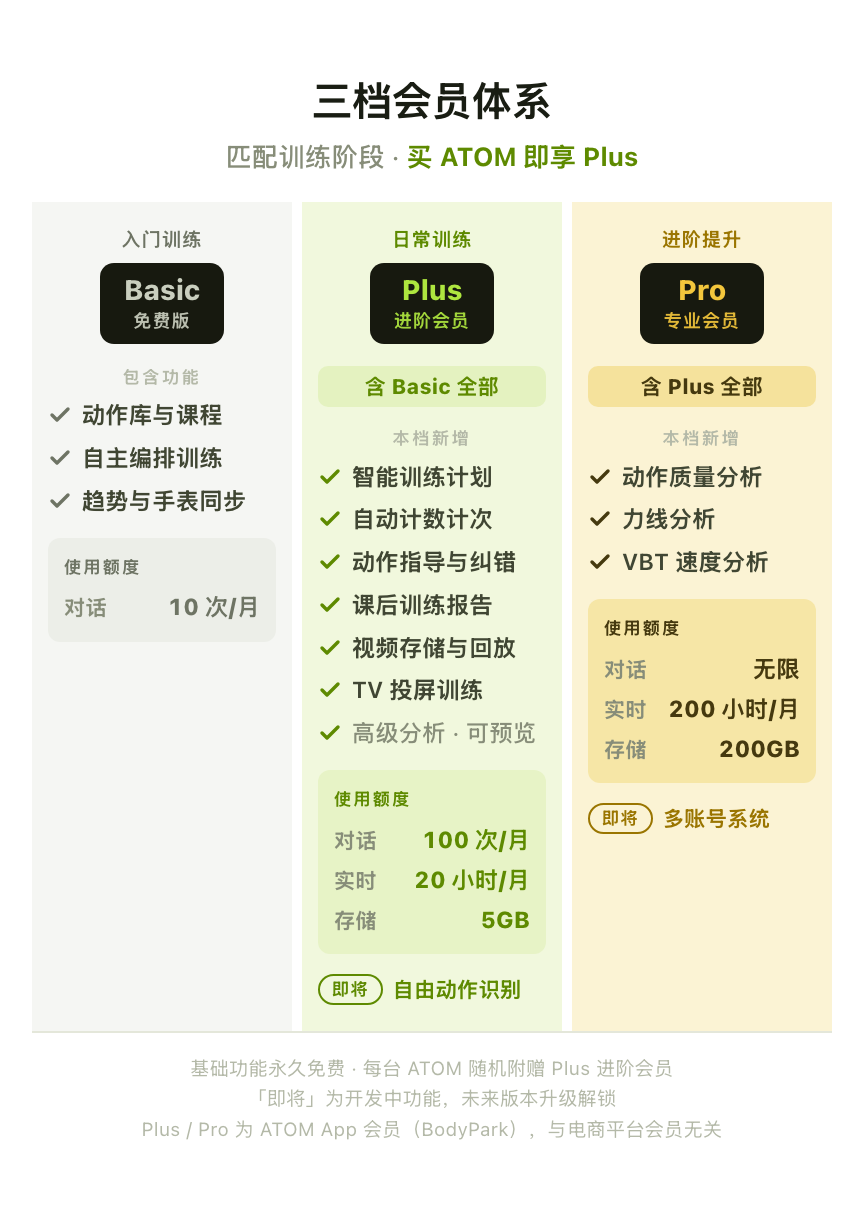
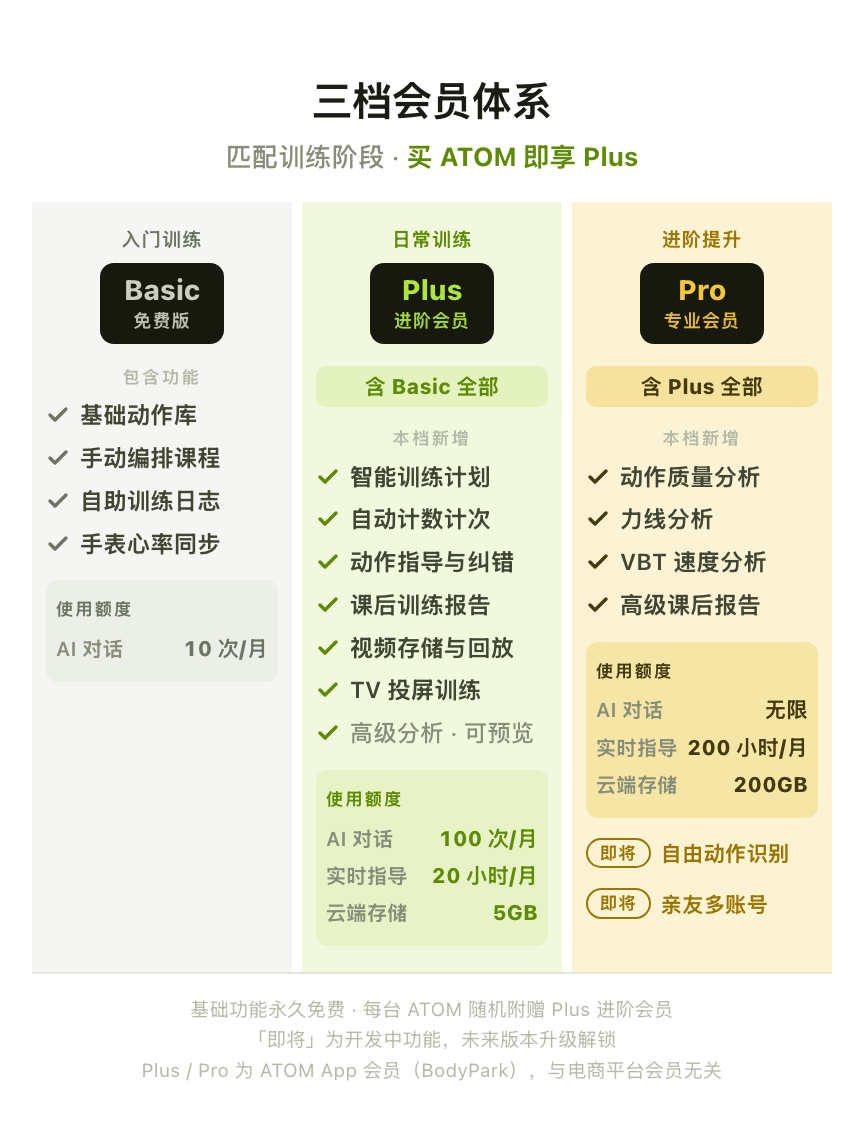
sync: 三版会员图口径统一（A 矩阵 / B 叠加 / C 简洁）
内容对齐到最新：
- 多账号系统 → 亲友多账号
- Pro 增「高级课后报告」（Pro 专属，Plus 不预览）
- 额度指标统一命名：AI 对话 / 实时指导 / 云端存储
- Basic 拆 4 项：基础动作库 / 手动编排课程 / 自助训练日志 / 手表心率同步
- 自由动作识别定为 Pro 专属；与亲友多账号同列「即将」，Plus 不再显示即将项
- B 叠加版 quota 收字号/间距解决长标签溢出，导出零溢出
- decisions.md 同步以上口径，自由动作识别档位标记为已决

Changed region(s): [[0.1562, 0.0611, 0.9688, 0.9468], [0.0625, 0.1832, 0.3125, 0.5803], [0.2188, 0.5497, 0.3125, 0.5803]]

diff --git a/charts/membership-matrix.html b/charts/membership-matrix.html
@@ -118,9 +118,10 @@
       ],
       rows: [
         { section: '跟练与记录' },
-        { label: '动作库与课程',   v: [Y, Y, Y] },
-        { label: '自主编排训练', v: [Y, Y, Y] },
-        { label: '趋势与手表同步', v: [Y, Y, Y] },
+        { label: '基础动作库',   v: [Y, Y, Y] },
+        { label: '手动编排课程', v: [Y, Y, Y] },
+        { label: '自助训练日志', v: [Y, Y, Y] },
+        { label: '手表心率同步', v: [Y, Y, Y] },
         { section: 'AI 实时教练' },
         { label: '智能训练计划',       v: [X, Y, Y] },
         { label: '自动计数计次', v: [X, Y, Y] },
@@ -132,13 +133,14 @@
         { label: '动作质量分析',   v: [X, P, Y] },
         { label: '力线分析',           v: [X, P, Y] },
         { label: 'VBT 速度分析',       v: [X, P, Y] },
+        { label: '高级课后报告',       v: [X, X, Y] },
         { section: '使用额度' },
-        { label: 'AI 教练对话',        v: ['10 次/月', '100 次/月', '无限'] },
-        { label: 'AI 实时时长',    v: [X, '20 小时/月', '200 小时/月'] },
-        { label: '视频云存储',     v: [X, '5GB', '200GB'] },
+        { label: 'AI 对话',            v: ['10 次/月', '100 次/月', '无限'] },
+        { label: '实时指导',        v: [X, '20 小时/月', '200 小时/月'] },
+        { label: '云端存储',       v: [X, '5GB', '200GB'] },
         { section: '即将上线', soon: true },
-        { label: '自由动作识别', sub: '无需预设 · 全程无感', v: [X, S, S] },
-        { label: '多账号系统',   sub: '家庭 / 多人 共用',       v: [X, X, S] }
+        { label: '自由动作识别', sub: '无需预设 · 全程无感', v: [X, X, S] },
+        { label: '亲友多账号',   sub: '家庭 / 多人 共用',       v: [X, X, S] }
       ],
       foot: '✓ 含 · 预览 = 可试用 · 即将 = 开发中 · — 不含 ｜ 基础功能永久免费<br>每台 ATOM 随机附赠 Plus 进阶会员（与首次激活账号绑定）<br>Plus / Pro 为 ATOM App 会员（BodyPark），与电商平台会员无关'
     },
@@ -151,9 +153,10 @@
       ],
       rows: [
         { section: 'Train & Track' },
-        { label: 'Library & workouts', v: [Y, Y, Y] },
-        { label: 'Custom plans & log',  v: [Y, Y, Y] },
-        { label: 'Trends & watch sync', v: [Y, Y, Y] },
+        { label: 'Exercise library', v: [Y, Y, Y] },
+        { label: 'Manual plan builder', v: [Y, Y, Y] },
+        { label: 'Self-log training', v: [Y, Y, Y] },
+        { label: 'Watch HR sync', v: [Y, Y, Y] },
         { section: 'AI Live Coaching' },
         { label: 'Adaptive plans',       v: [X, Y, Y] },
         { label: 'Auto rep-counting', v: [X, Y, Y] },
@@ -165,13 +168,14 @@
         { label: 'Form insights', v: [X, P, Y] },
         { label: 'Bar-path analysis',     v: [X, P, Y] },
         { label: 'VBT analysis', v: [X, P, Y] },
+        { label: 'Advanced reports', v: [X, X, Y] },
         { section: 'Usage & Quota' },
-        { label: 'AI coach chats',        v: ['10/mo', '100/mo', 'Unlimited'] },
-        { label: 'Live-coaching time', v: [X, '20 hrs/mo', '200 hrs/mo'] },
-        { label: 'Cloud storage',   v: [X, '5GB', '200GB'] },
+        { label: 'AI chats',              v: ['10/mo', '100/mo', 'Unlimited'] },
+        { label: 'Live guidance',      v: [X, '20 hrs/mo', '200 hrs/mo'] },
+        { label: 'Cloud storage',      v: [X, '5GB', '200GB'] },
         { section: 'Coming Soon', soon: true },
-        { label: 'Free-form tracking', sub: 'No preset · auto-log', v: [X, S, S] },
-        { label: 'Multi-account',      sub: 'Family / shared profiles',   v: [X, X, S] }
+        { label: 'Free-form tracking', sub: 'No preset · auto-log', v: [X, X, S] },
+        { label: 'Family accounts',    sub: 'Family / shared profiles',   v: [X, X, S] }
       ],
       foot: '✓ Included · Preview = trial · Soon = in development · — Not included ｜ Basic is free forever<br>Plus membership is included with every ATOM (bound to the activating account)<br>Plus / Pro are ATOM App memberships (by BodyPark), unrelated to any store membership'
     }

diff --git a/charts/membership-stack.html b/charts/membership-stack.html
@@ -25,7 +25,7 @@
   .chart-head p b { color: var(--ink2); font-weight: 700; }
 
   .cols { display: grid; grid-template-columns: repeat(3, 1fr); gap: 5px; align-items: stretch; }
-  .col { padding: 12px 8px 13px; display: flex; flex-direction: column; min-width: 0; }
+  .col { padding: 12px 7px 13px; display: flex; flex-direction: column; min-width: 0; }
   .col.c1 { background: var(--t1); }
   .col.c2 { background: var(--t2); }
   .col.c3 { background: var(--t3); }
@@ -54,14 +54,14 @@
   .c1 li .dot svg { stroke: var(--ink1); } .c2 li .dot svg { stroke: var(--ink2); } .c3 li .dot svg { stroke: var(--ink3d); }
   li.muted { color: var(--muted); font-weight: 500; }
 
-  .quota { margin-top: 11px; padding: 9px 8px; border-radius: 6px; }
+  .quota { margin-top: 11px; padding: 9px 5px; border-radius: 6px; }
   .c1 .quota { background: #ECEEE8; } .c2 .quota { background: #E7F3C6; } .c3 .quota { background: #F6E6A6; }
   .quota .qh { font-size: 8.5px; font-weight: 800; letter-spacing: .12em; margin-bottom: 6px; }
   .c1 .quota .qh { color: var(--ink1); } .c2 .quota .qh { color: var(--ink2); } .c3 .quota .qh { color: var(--ink3d); }
-  .qline { display: flex; justify-content: space-between; align-items: baseline; gap: 6px; font-variant-numeric: tabular-nums; }
+  .qline { display: flex; justify-content: space-between; align-items: baseline; gap: 4px; font-variant-numeric: tabular-nums; }
   .qline + .qline { margin-top: 4px; }
-  .qline .qk { font-size: 10.5px; font-weight: 600; color: var(--muted); white-space: nowrap; }
-  .qline .qv { font-size: 11.5px; font-weight: 800; white-space: nowrap; }
+  .qline .qk { font-size: 10px; font-weight: 600; color: var(--muted); white-space: nowrap; }
+  .qline .qv { font-size: 10.5px; font-weight: 800; white-space: nowrap; }
   .c1 .qline .qv { color: var(--ink1); } .c2 .qline .qv { color: var(--ink2); } .c3 .qline .qv { color: var(--ink3d); }
 
   .soon { margin-top: 10px; font-size: 10.5px; font-weight: 700; line-height: 1.35; display: flex; align-items: center; gap: 5px; }
@@ -86,19 +86,18 @@
     title: '三档会员体系', sub: '匹配训练阶段 · <b>买 ATOM 即享 Plus</b>',
     cols: [
       { cls: 'c1', role: '入门训练', en: 'Basic', cn: '免费版',
-        feats: ['动作库与课程', '自主编排训练', '趋势与手表同步'],
-        quota: [['对话', '10 次/月']] },
+        feats: ['基础动作库', '手动编排课程', '自助训练日志', '手表心率同步'],
+        quota: [['AI 对话', '10 次/月']] },
       { cls: 'c2', role: '日常训练', en: 'Plus', cn: '进阶会员',
         inc: '含 Basic 全部',
         feats: ['智能训练计划', '自动计数计次', '动作指导与纠错', '课后训练报告', '视频存储与回放', 'TV 投屏训练'],
         muted: ['高级分析 · 可预览'],
-        quota: [['对话', '100 次/月'], ['实时', '20 小时/月'], ['存储', '5GB']],
-        soon: '自由动作识别' },
+        quota: [['AI 对话', '100 次/月'], ['实时指导', '20 小时/月'], ['云端存储', '5GB']] },
       { cls: 'c3', role: '进阶提升', en: 'Pro', cn: '专业会员',
         inc: '含 Plus 全部',
-        feats: ['动作质量分析', '力线分析', 'VBT 速度分析'],
-        quota: [['对话', '无限'], ['实时', '200 小时/月'], ['存储', '200GB']],
-        soon: '多账号系统' }
+        feats: ['动作质量分析', '力线分析', 'VBT 速度分析', '高级课后报告'],
+        quota: [['AI 对话', '无限'], ['实时指导', '200 小时/月'], ['云端存储', '200GB']],
+        soon: ['自由动作识别', '亲友多账号'] }
     ],
     foot: '基础功能永久免费 · 每台 ATOM 随机附赠 Plus 进阶会员<br>「即将」为开发中功能，未来版本升级解锁<br>Plus / Pro 为 ATOM App 会员（BodyPark），与电商平台会员无关'
   };
@@ -118,7 +117,7 @@
       c.quota.forEach(q => h += `<div class="qline"><span class="qk">${q[0]}</span><span class="qv">${q[1]}</span></div>`);
       h += `</div>`;
     }
-    if (c.soon) h += `<div class="soon"><span class="tag">即将</span><span>${c.soon}</span></div>`;
+    (c.soon || []).forEach(sn => h += `<div class="soon"><span class="tag">即将</span><span>${sn}</span></div>`);
     h += `<div class="spacer"></div></div>`;
     return h;
   }

diff --git a/docs/decisions.md b/docs/decisions.md
@@ -71,16 +71,18 @@
 
 四个分区，对应三段故事：
 
-**① 跟练与记录**（三档全有）：动作库与课程、自主编排训练、趋势与手表同步
+**① 跟练与记录**（三档全有）：基础动作库、手动编排课程、自助训练日志、手表心率同步
 **② AI 实时教练**（Plus 点亮）：智能训练计划、**自动计数计次**、**动作指导与纠错**、课后训练报告、视频存储与回放、TV 投屏训练
-**③ 高级训练分析**（Pro 解锁 / Plus 可预览）：动作质量分析、力线分析、VBT 速度分析
+**③ 高级训练分析**（Pro 解锁 / Plus 可预览）：动作质量分析、力线分析、VBT 速度分析；**高级课后报告**（Pro 专属，Plus 不预览）
 **④ 使用额度**（配额独立成区，露具体数值）：
 
 | | Basic | Plus | Pro |
 |---|---|---|---|
-| AI 教练对话 | 10 次/月 | 100 次/月 | 无限 |
-| AI 实时时长 | — | 20 小时/月 | 200 小时/月 |
-| 视频云存储 | — | 5GB | 200GB |
+| AI 对话 | 10 次/月 | 100 次/月 | 无限 |
+| 实时指导 | — | 20 小时/月 | 200 小时/月 |
+| 云端存储 | — | 5GB | 200GB |
+
+> 额度指标命名：**AI 对话 / 实时指导 / 云端存储**（原为 对话 / 实时 / 存储 或 AI 教练对话 / AI 实时时长 / 视频云存储，已统一）。
 
 **已修正的问题**：
 
@@ -92,10 +94,10 @@
 
 ## 6. 即将上线（开发中，未来版本解锁）
 
-| 功能 | 说明 | 档位（暂定，待确认） |
+| 功能 | 说明 | 档位 |
 |---|---|---|
-| 自由动作识别 | 无需预设动作，全程无感记录 | Plus + Pro |
-| 多账号系统 | 家庭 / 多人 独立账号共用 | Pro |
+| 自由动作识别 | 无需预设动作，全程无感记录 | **Pro**（原暂定 Plus+Pro，现定为 Pro 专属） |
+| 亲友多账号 | 家庭 / 多人 独立账号共用（原名"多账号系统"） | Pro |
 
 - 图内用 `即将 / Soon` 胶囊标注，**与已上线的 ✓ 明确区分**，避免售前误解成"现在就有"。
 
@@ -114,7 +116,7 @@
 
 ## 8. 待决事项（Open）
 
-- [ ] **自由动作识别**最终档位归属（暂 Plus + Pro）
+- [x] **自由动作识别**档位：定为 **Pro 专属**（2026-07 决）
 - [ ] **「预览 / Preview」的具体定义**（看前 N 次 / 带水印 / 只看摘要）—— 直接影响升级转化钩子的强度
 - [ ] **B 叠加版英文版**制作
 - [ ] 内部功能表与本物料口径对齐：配额独立成计量项、每个功能标注**是否依赖 ATOM 硬件**（这条线正好是 Free/Plus 的分界）、Preview 三态标准化、Plus/Pro ↔ 进阶/专业 ↔ VIP/SVIP 命名对照表